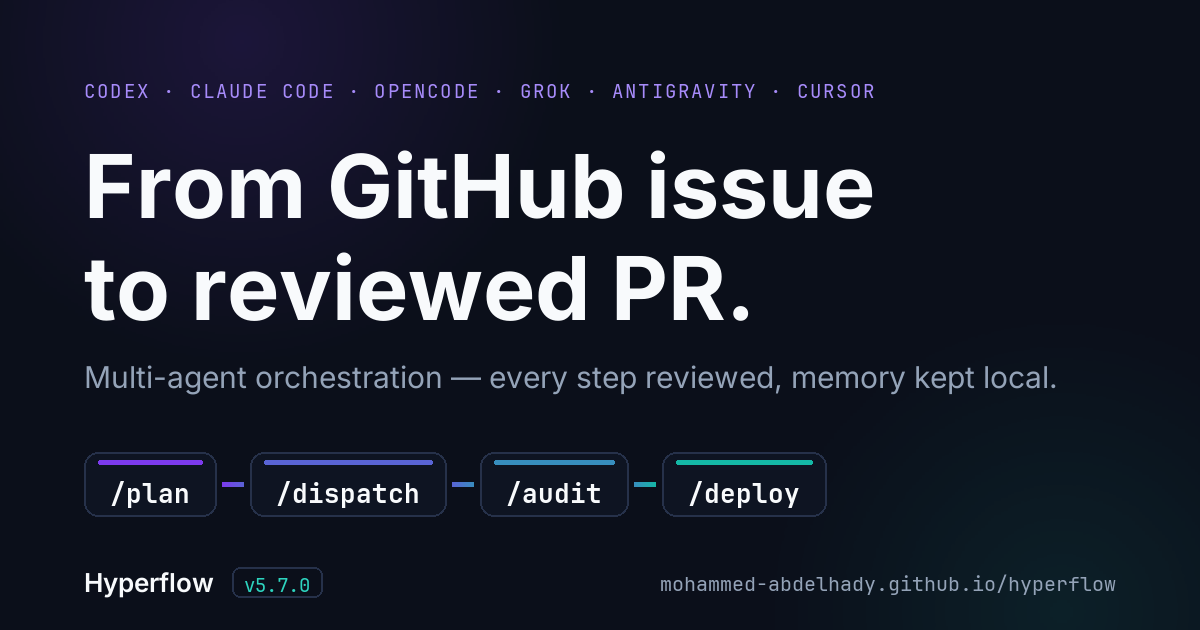
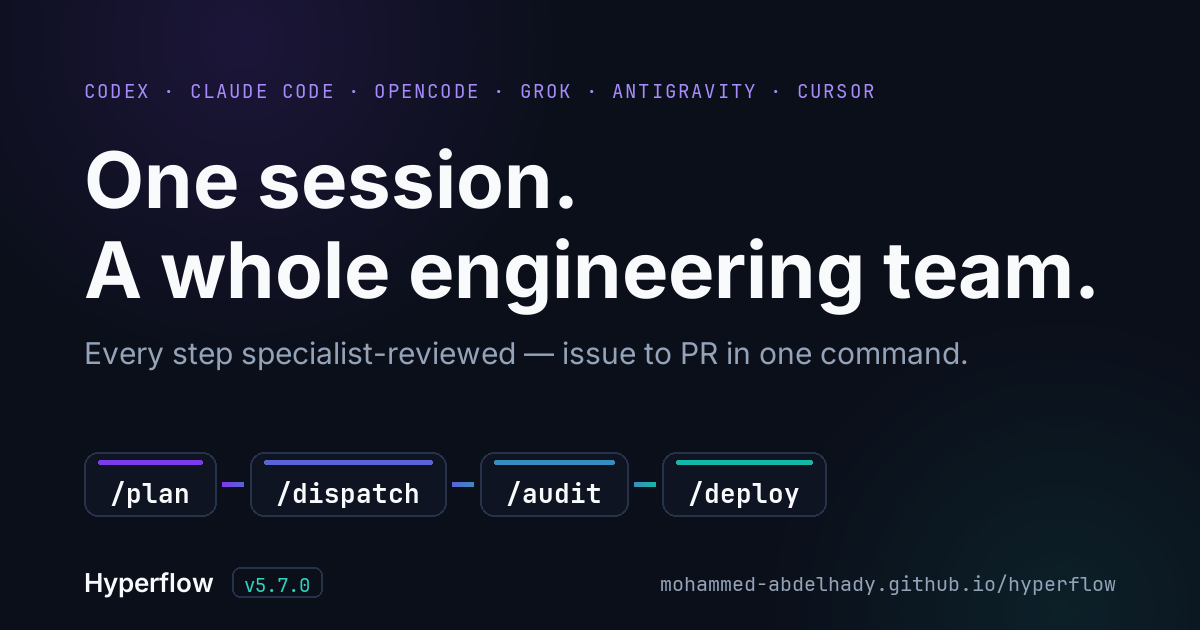
fix(site): orchestration-led hero headline
The hero now leads with the whole system — 'One session. A whole
engineering team.' — with the issue-to-reviewed-PR outcome moved into
the subhead as the proof point. The og-image share card matches, and
generate-og.py gains fit guards that shrink headline/subline until they
clear the margins instead of clipping.

Changed region(s): [[0.0617, 0.2413, 0.925, 0.5127], [0.0617, 0.5429, 0.8633, 0.6333]]

diff --git a/docs/index.html b/docs/index.html
@@ -100,12 +100,12 @@
     <section class="hero" id="hero" aria-labelledby="hero-heading">
       <div class="container">
         <p class="hero-eyebrow">Codex · Claude Code · OpenCode · Grok · Antigravity · Cursor</p>
-        <h1 id="hero-heading">From GitHub issue to<br />reviewed PR. One command.</h1>
+        <h1 id="hero-heading">One session.<br />A whole engineering team.</h1>
         <p class="hero-sub">
-          Hyperflow turns one AI coding session into a multi-agent engineering pipeline —
-          planners design, workers build in parallel, and a domain specialist reviews
-          <strong>every step</strong> before it ships. On your session model, zero config.
-          Learnings persist in local per-project memory — never uploaded, never mixed across repos.
+          Planners design, parallel workers build, and 22 domain specialists review
+          <strong>every step</strong> — from a GitHub issue to a reviewed PR in one command.
+          On your session model, zero config. Learnings persist in local per-project
+          memory — never uploaded, never mixed across repos.
         </p>
         <div class="hero-cta" role="group" aria-label="Install Hyperflow">
           <span class="cmd"><span class="prompt">$</span> <span id="hero-cmd">curl -fsSL https://raw.githubusercontent.com/Mohammed-Abdelhady/hyperflow/main/install.sh | bash</span>

diff --git a/scripts/generate-og.py b/scripts/generate-og.py
@@ -27,8 +27,8 @@ FONT_DIR = ROOT / "scripts" / "assets" / "fonts"
 
 CHAIN = ["plan", "dispatch", "audit", "deploy"]
 EYEBROW = "CODEX · CLAUDE CODE · OPENCODE · GROK · ANTIGRAVITY · CURSOR"
-HEADLINE = ["From GitHub issue", "to reviewed PR."]
-SUBLINE = "Multi-agent orchestration — every step reviewed, memory kept local."
+HEADLINE = ["One session.", "A whole engineering team."]
+SUBLINE = "Every step specialist-reviewed — issue to PR in one command."
 SITE = "mohammed-abdelhady.github.io/hyperflow"
 
 
@@ -108,14 +108,23 @@ def draw_og(colors: dict, version: str, out: Path):
     # Eyebrow — supported CLIs
     tracked_text(d, (margin, 78), EYEBROW, mono(19), colors["plan_text"], tracking=2.2)
 
-    # Headline
+    # Headline — shrink until the longest line fits inside the margins
+    size = 88
+    while size > 40:
+        font = inter(size, "Bold")
+        if max(d.textlength(line, font=font) for line in HEADLINE) <= W - margin * 2:
+            break
+        size -= 2
     y = 132
     for line in HEADLINE:
-        d.text((margin, y), line, font=inter(88, "Bold"), fill=colors["text1"])
-        y += 102
+        d.text((margin, y), line, font=inter(size, "Bold"), fill=colors["text1"])
+        y += round(size * 1.16)
 
-    # Subline
-    d.text((margin, y + 22), SUBLINE, font=inter(30, "Regular"), fill=colors["text2"])
+    # Subline — same fit guard as the headline
+    sub_size = 30
+    while sub_size > 18 and d.textlength(SUBLINE, font=inter(sub_size, "Regular")) > W - margin * 2:
+        sub_size -= 1
+    d.text((margin, y + 22), SUBLINE, font=inter(sub_size, "Regular"), fill=colors["text2"])
 
     # Chain pills with gradient connectors
     py, ph = 452, 64
